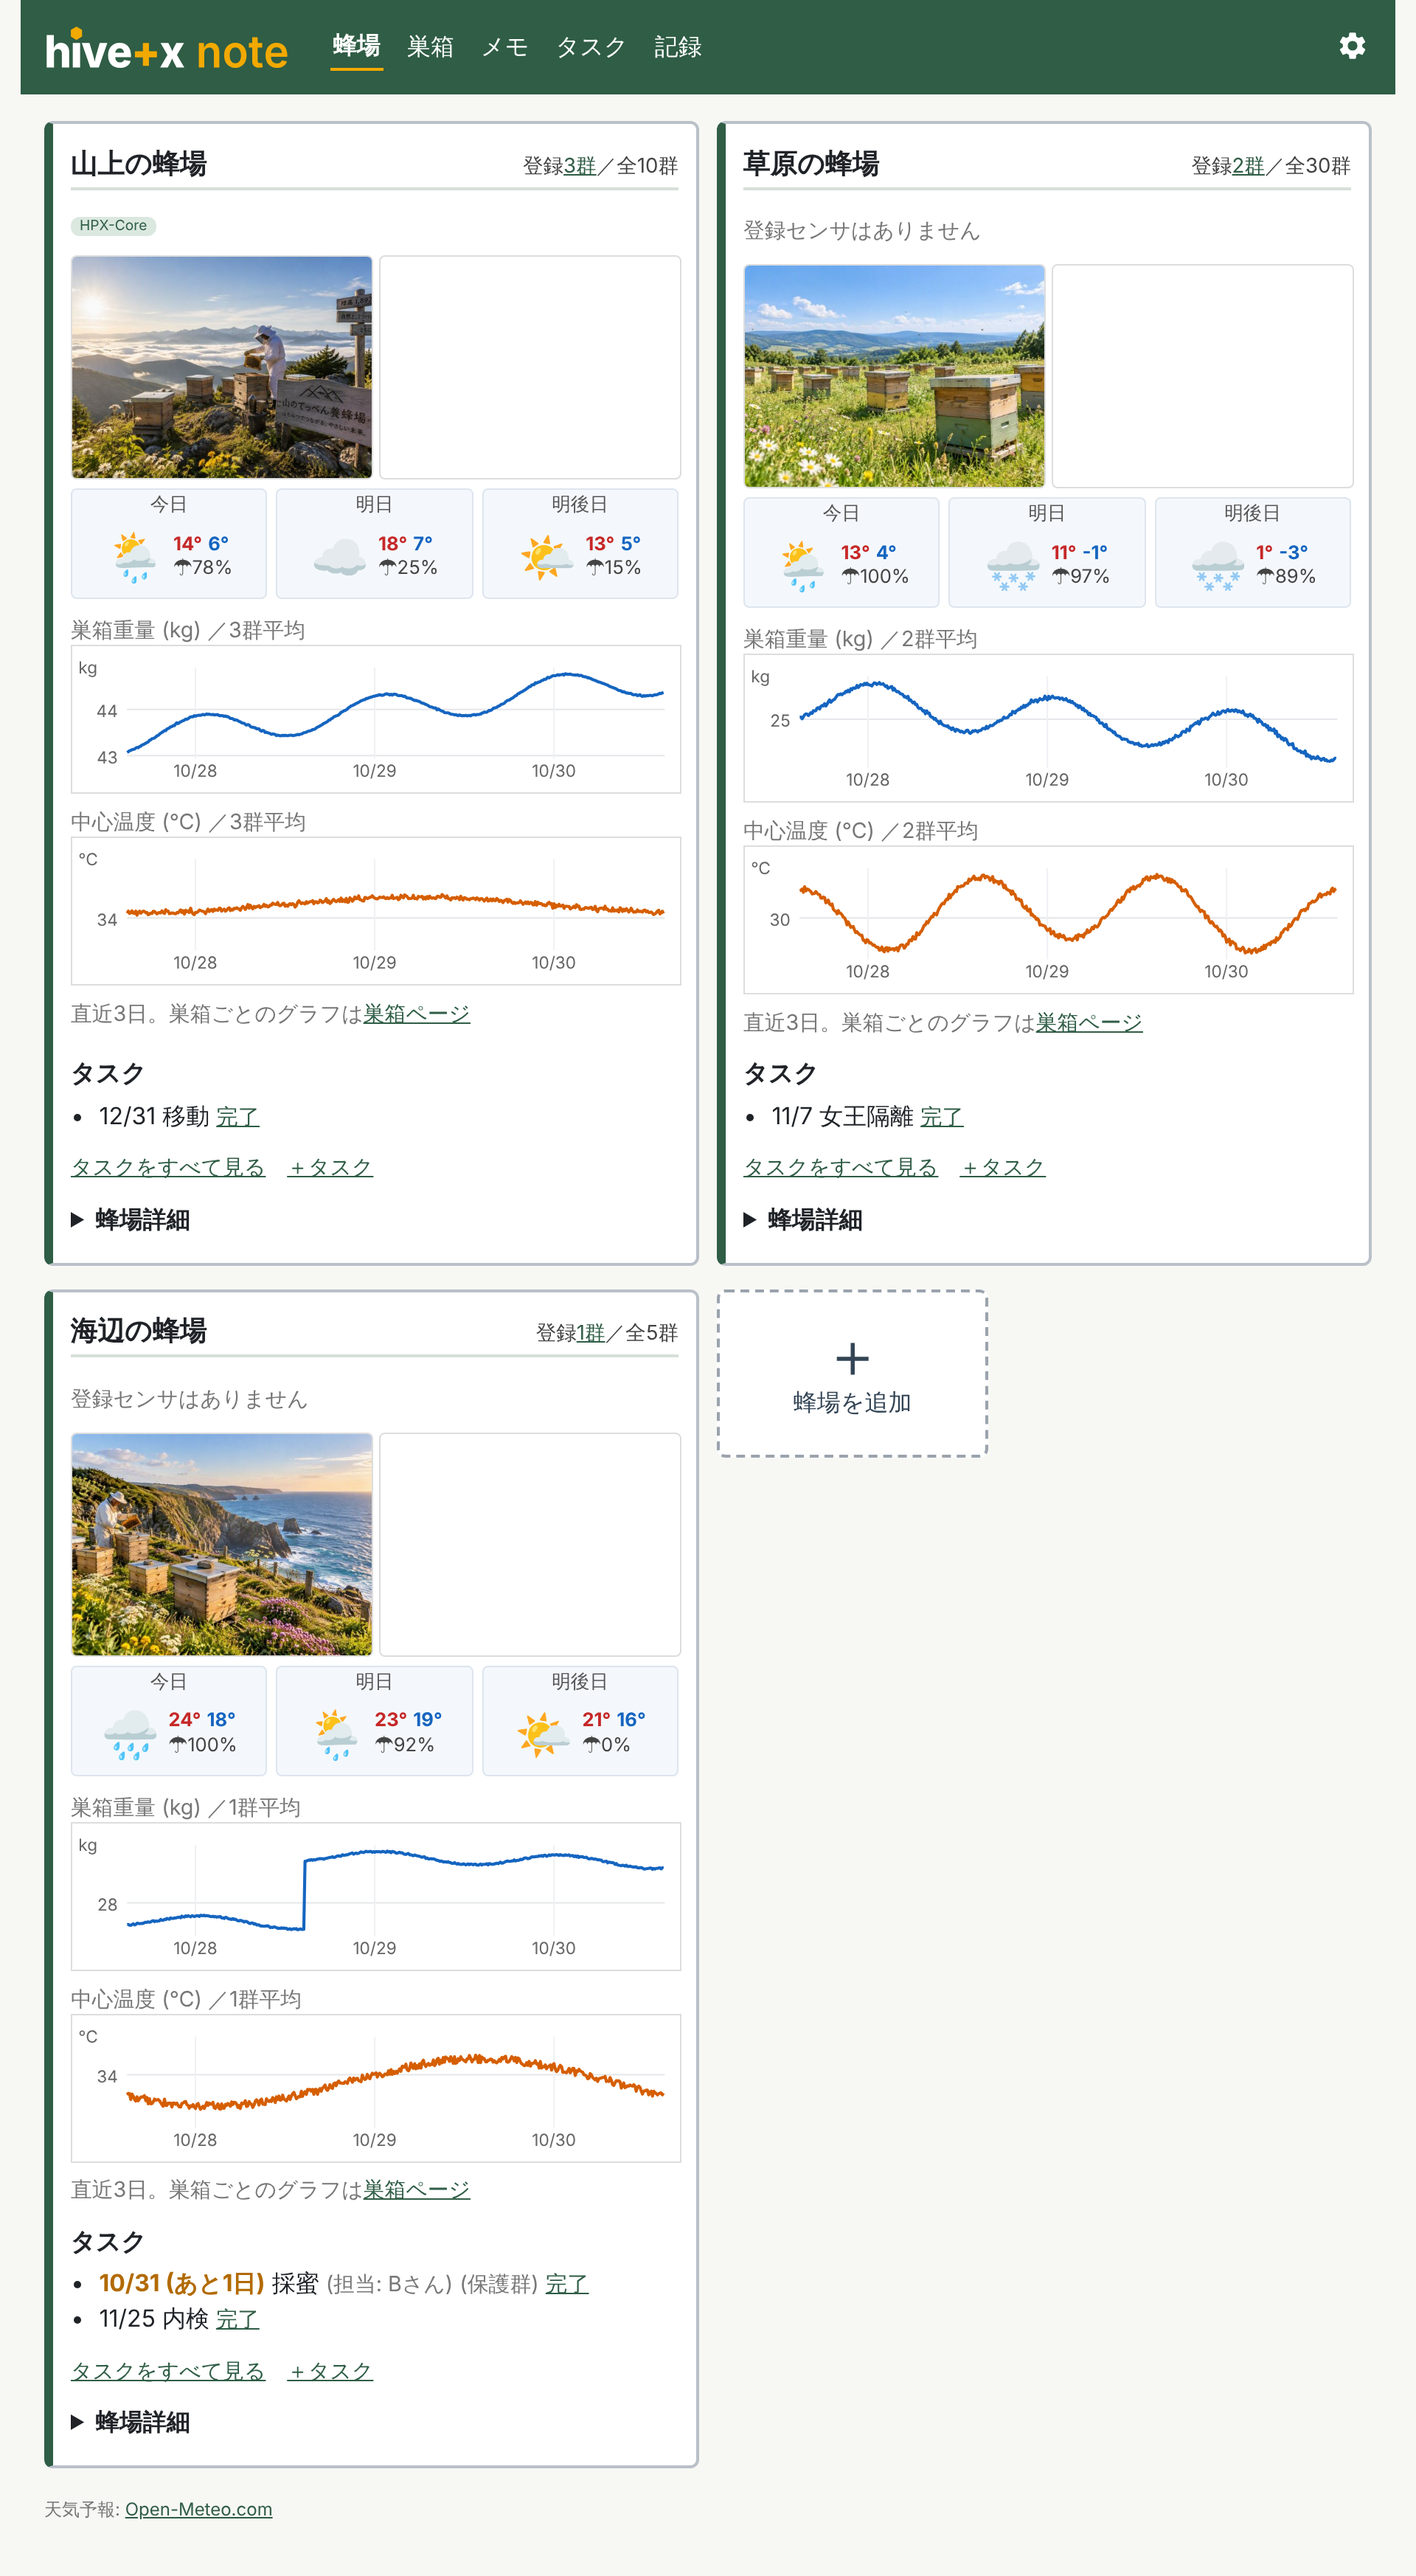
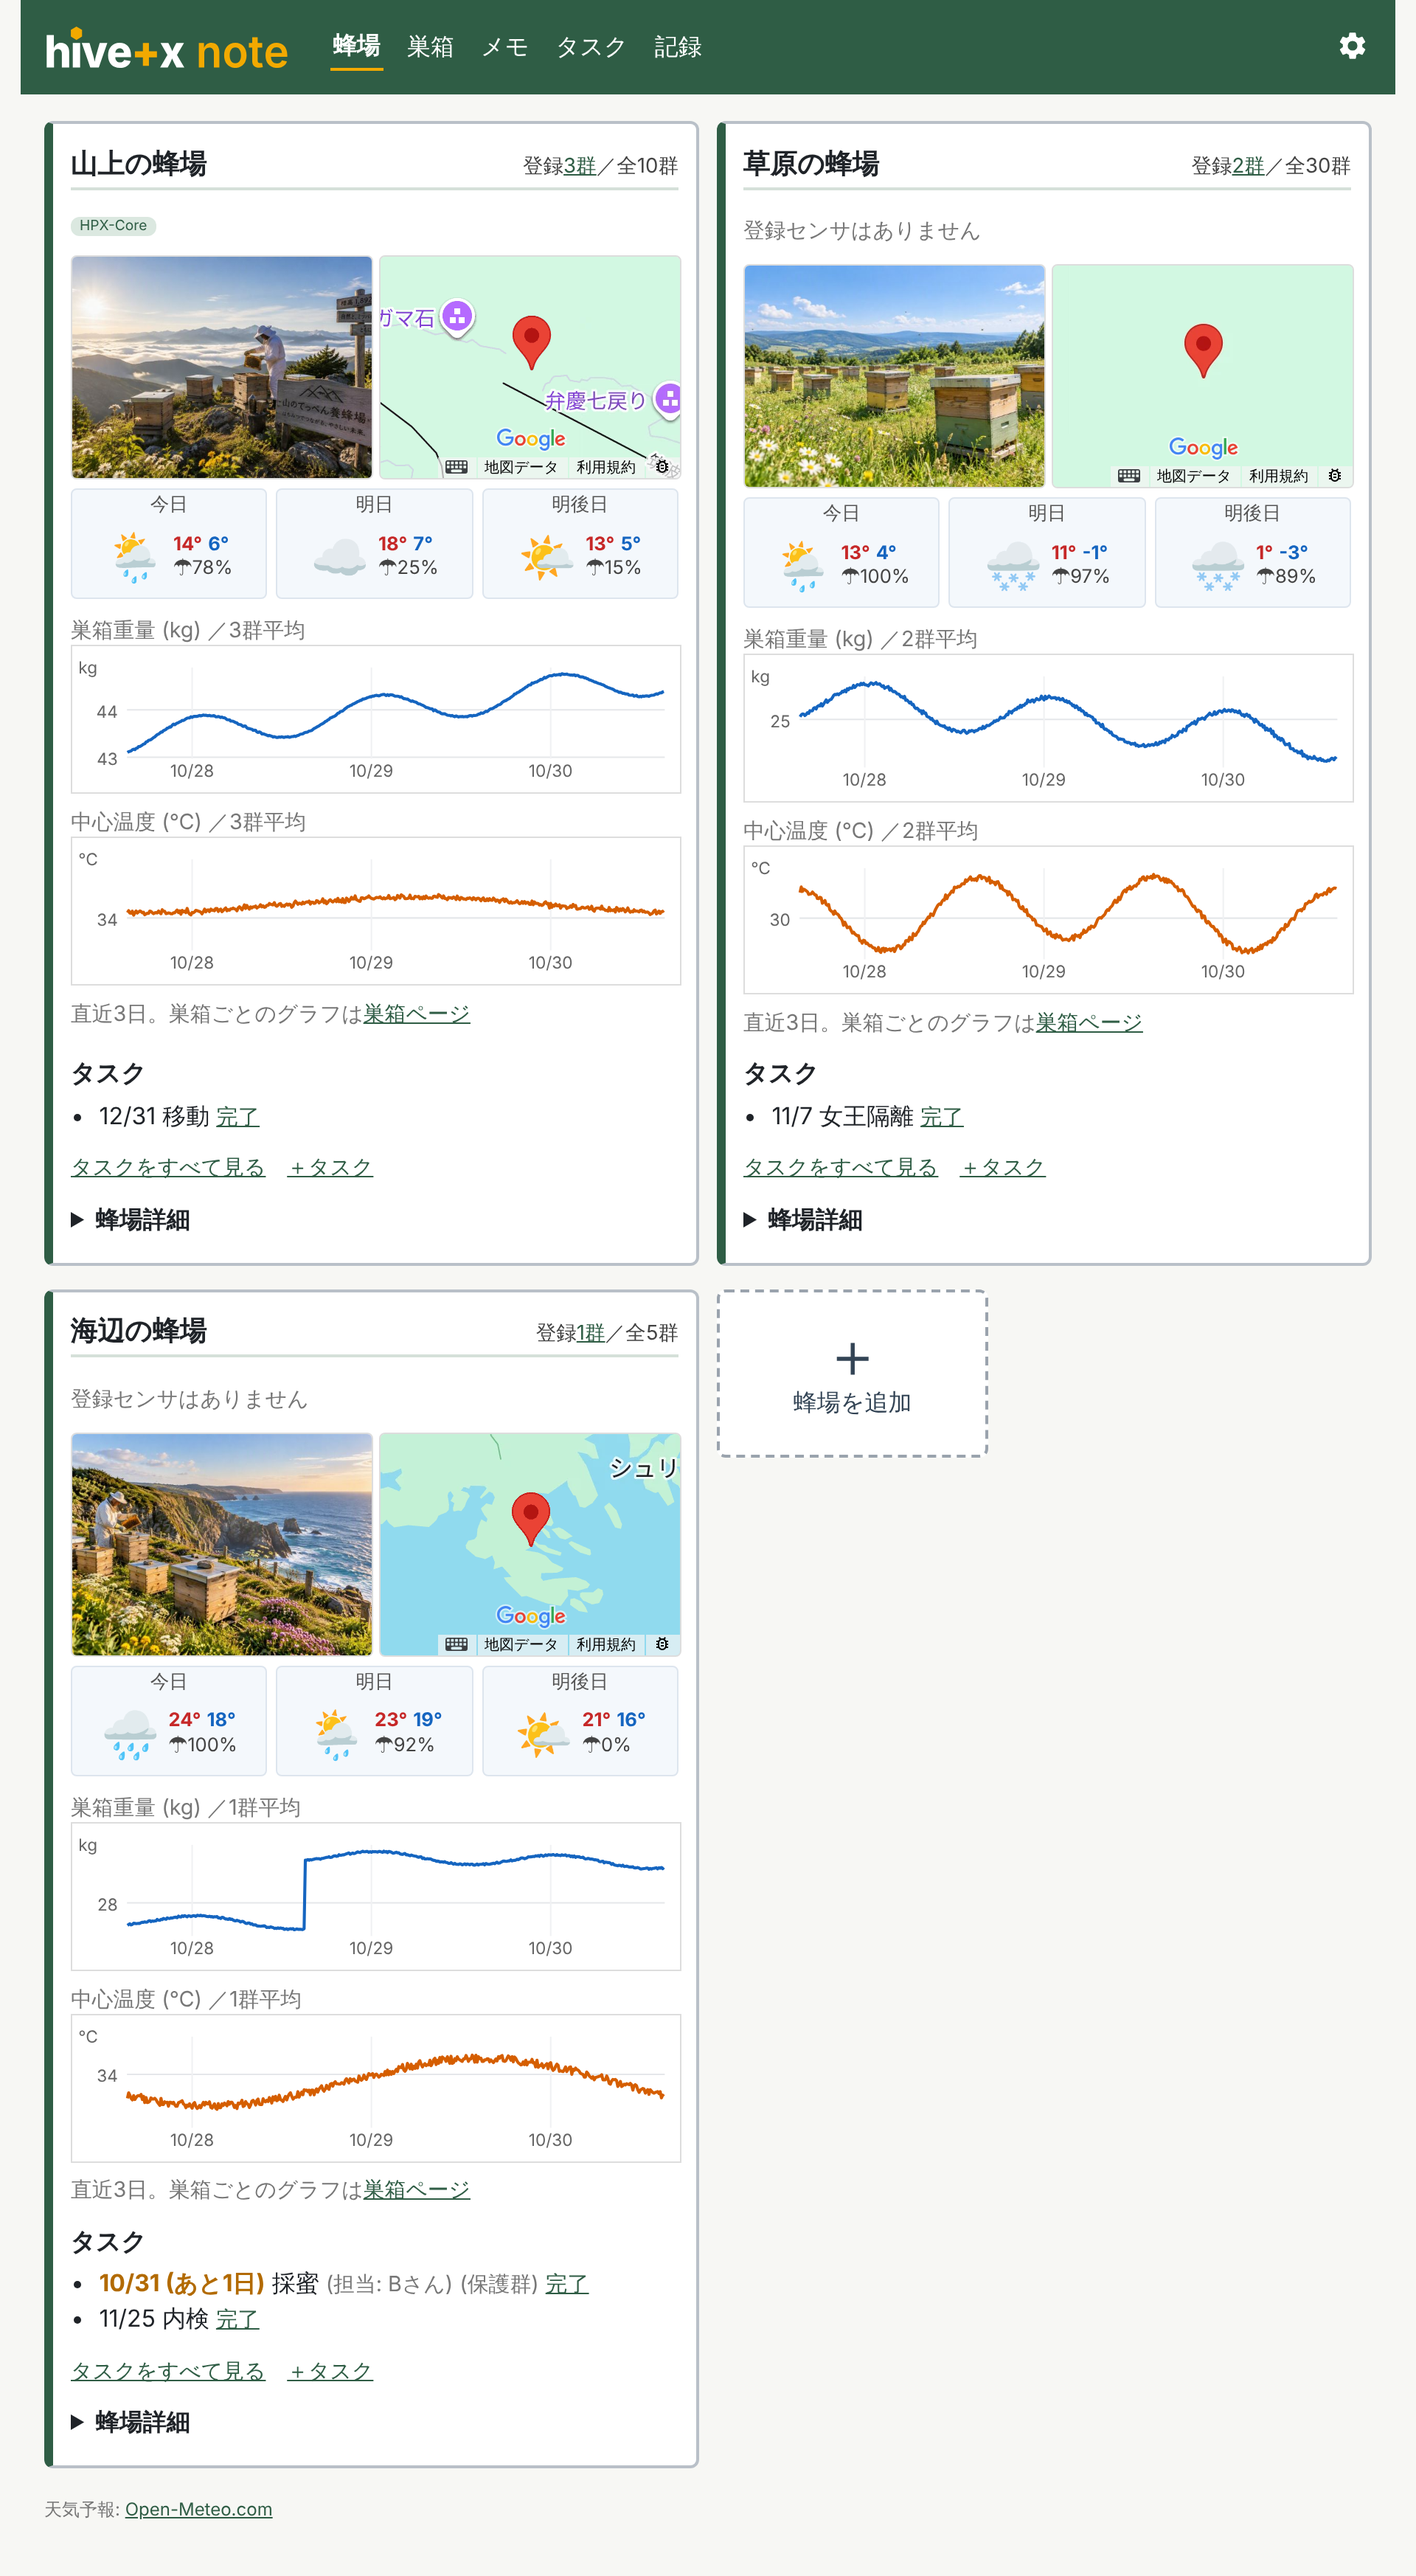
app.html: 蜂場の画面写真を地図が写ったものに替え、地図の説明を足す
Claude-Session: https://claude.ai/code/session_01LCC9B5q98qiA2vS65sbyRF

diff --git a/site/app.html b/site/app.html
@@ -152,15 +152,15 @@
   <section id="apiary">
     <div class="reveal wrap wide">
       <h2>蜂場</h2>
-      <p class="lead">蜂場ごとに、天気と巣箱の様子をひと目で確かめられます。</p>
+      <p class="lead">いくつもの蜂場を並べて、天気と巣箱の様子をひと目で確かめられます。</p>
       <figure class="anno">
         <div class="box"><img src="img/app_apiary.png" alt="蜂場の画面" loading="lazy">
-          <span class="pt" style="--x:0.86;--y:0.064">1</span><span class="pt" style="--x:0.08;--y:0.087">2</span><span class="pt" style="--x:0.16;--y:0.14">3</span><span class="pt" style="--x:0.75;--y:0.15">4</span><span class="pt" style="--x:0.16;--y:0.21">5</span><span class="pt" style="--x:0.15;--y:0.27">6</span><span class="pt" style="--x:0.15;--y:0.355">7</span><span class="pt" style="--x:0.78;--y:0.397">8</span><span class="pt" style="--x:0.07;--y:0.43">9</span><span class="pt" style="--x:0.54;--y:0.474">10</span><span class="pt" style="--x:0.6;--y:0.535">11</span><span class="pt" style="--x:0.215;--y:0.72">12</span><span class="pt" style="--x:0.07;--y:0.885">13</span></div>
+          <span class="pt" style="--x:0.86;--y:0.064">1</span><span class="pt" style="--x:0.08;--y:0.087">2</span><span class="pt" style="--x:0.16;--y:0.14">3</span><span class="pt" style="--x:0.85;--y:0.15">4</span><span class="pt" style="--x:0.16;--y:0.21">5</span><span class="pt" style="--x:0.15;--y:0.27">6</span><span class="pt" style="--x:0.15;--y:0.355">7</span><span class="pt" style="--x:0.78;--y:0.397">8</span><span class="pt" style="--x:0.07;--y:0.43">9</span><span class="pt" style="--x:0.54;--y:0.474">10</span><span class="pt" style="--x:0.6;--y:0.535">11</span><span class="pt" style="--x:0.215;--y:0.72">12</span><span class="pt" style="--x:0.07;--y:0.885">13</span></div>
         <ol class="notes">
             <li class="R" style="--x:0.86;--y:0.064"><b>巣箱の数</b>登録した巣箱と、蜂場全体の群数</li>
             <li class="L" style="--x:0.08;--y:0.087"><b>ハブの状態</b>蜂場に置いた HPX-Core が受信中かどうか</li>
             <li class="L" style="--x:0.16;--y:0.14"><b>蜂場の写真</b>蜂場ごとに写真を登録できます</li>
-            <li class="R" style="--x:0.75;--y:0.15"><b>蜂場を並べて表示</b>いくつもの蜂場を1画面で見比べられます</li>
+            <li class="R" style="--x:0.85;--y:0.15"><b>地図</b>住所か緯度・経度から、蜂場の場所を Google マップで表示</li>
             <li class="L" style="--x:0.16;--y:0.21"><b>3日間の天気</b>今日・明日・明後日の気温と降水確率</li>
             <li class="L" style="--x:0.15;--y:0.27"><b>巣箱の重さ</b>直近3日の、巣箱の平均の重さ</li>
             <li class="L" style="--x:0.15;--y:0.355"><b>巣箱の温度</b>直近3日の、巣箱の中心温度</li>
